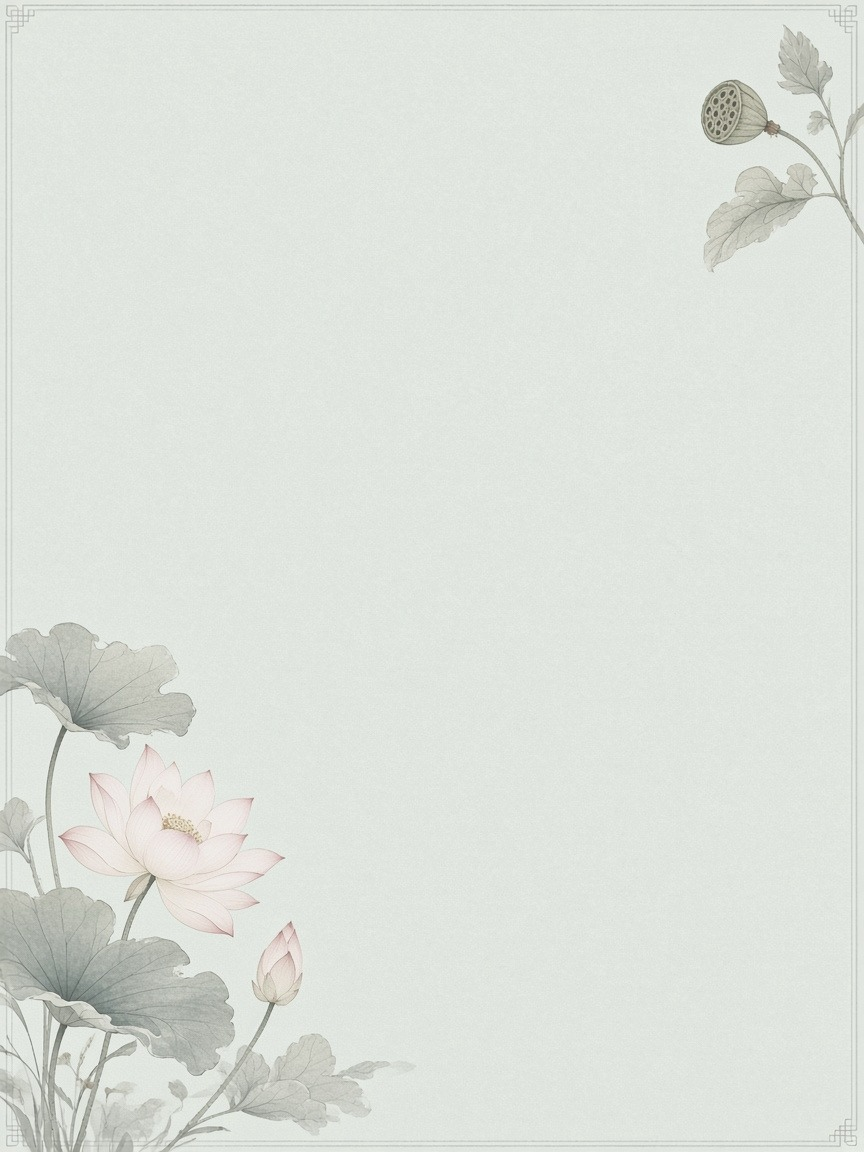
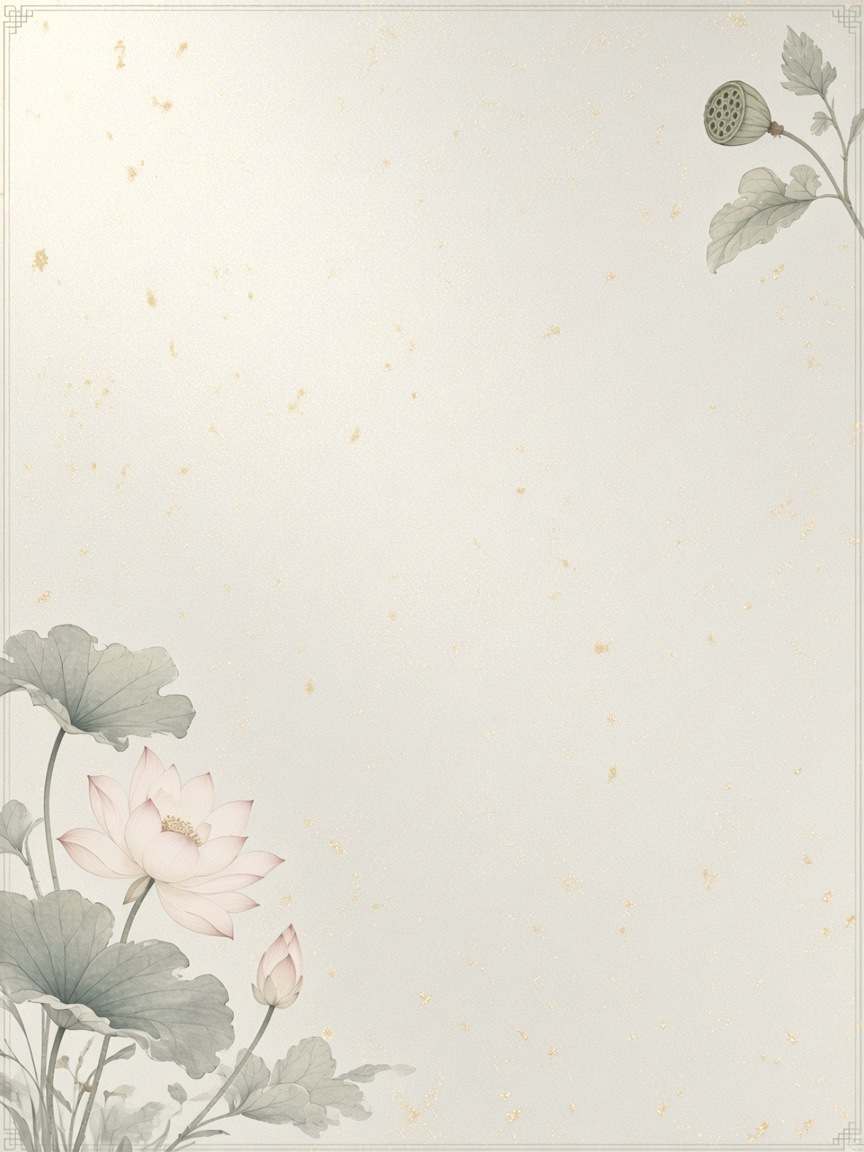
荷花字帖背景改為淺銀金灑金箋
原本淡水青底色與蘭花、竹子太接近，難以區分；改成帶細碎金箔的銀金紙，
與菊花的米黃也保持區隔，並更新快取版本讓新圖立即生效。

diff --git a/copybook/index.html b/copybook/index.html
@@ -119,7 +119,7 @@
                                 <img class="bg-thumb" src="backgrounds/thumbs/peony.jpg?v=4" alt=""><span class="bg-name">牡丹</span>
                             </button>
                             <button type="button" class="bg-tile" role="radio" aria-checked="false" data-bg="lotus">
-                                <img class="bg-thumb" src="backgrounds/thumbs/lotus.jpg?v=4" alt=""><span class="bg-name">荷花</span>
+                                <img class="bg-thumb" src="backgrounds/thumbs/lotus.jpg?v=5" alt=""><span class="bg-name">荷花</span>
                             </button>
                             <button type="button" class="bg-tile bg-tile--upload" role="radio" aria-checked="false" data-bg="upload" id="btnBgImageUpload" title="上傳圖片作為字帖背景">
                                 <span class="bg-thumb bg-thumb--upload" id="bgUploadThumb"><span class="bg-plus" aria-hidden="true">＋</span></span><span class="bg-name">上傳</span>
@@ -181,6 +181,6 @@
         </div>
     </div>
 
-    <script src="app.js?v=89"></script>
+    <script src="app.js?v=90"></script>
 </body>
 </html>

diff --git a/copybook/app.js b/copybook/app.js
@@ -241,7 +241,7 @@
         bamboo: 'backgrounds/\u7af9\u5b50.jpg?v=5',
         chrysanthemum: 'backgrounds/\u83ca\u82b1.jpg?v=5',
         peony: 'backgrounds/\u7261\u4e39.jpg?v=5',
-        lotus: 'backgrounds/\u8377\u82b1.jpg?v=5'
+        lotus: 'backgrounds/\u8377\u82b1.jpg?v=6'
     };
     var preview = document.getElementById('preview');
     var pdfButtons = [document.getElementById('btnPdf'), document.getElementById('btnPdfMobile')].filter(Boolean);
